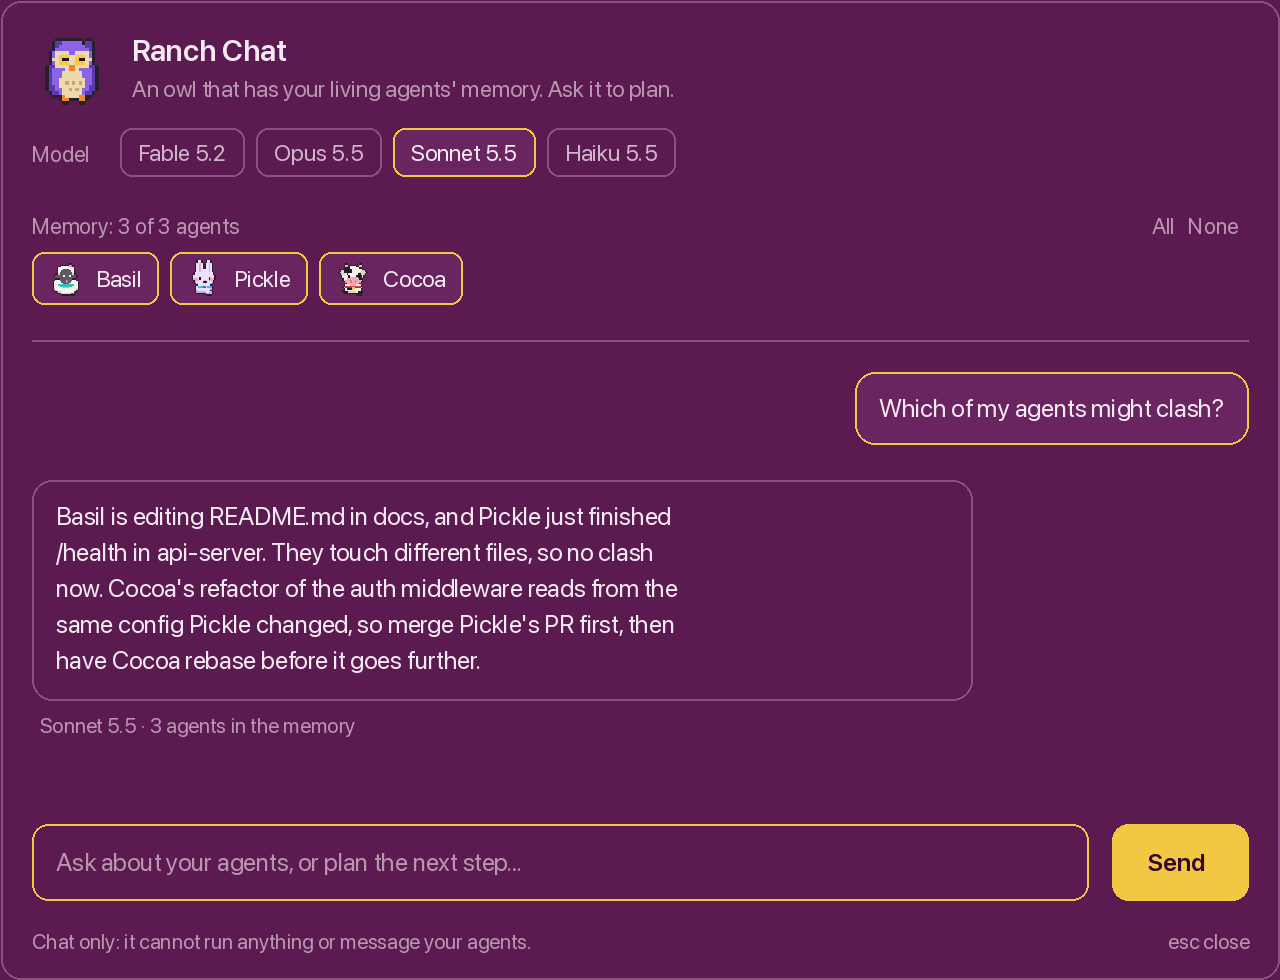
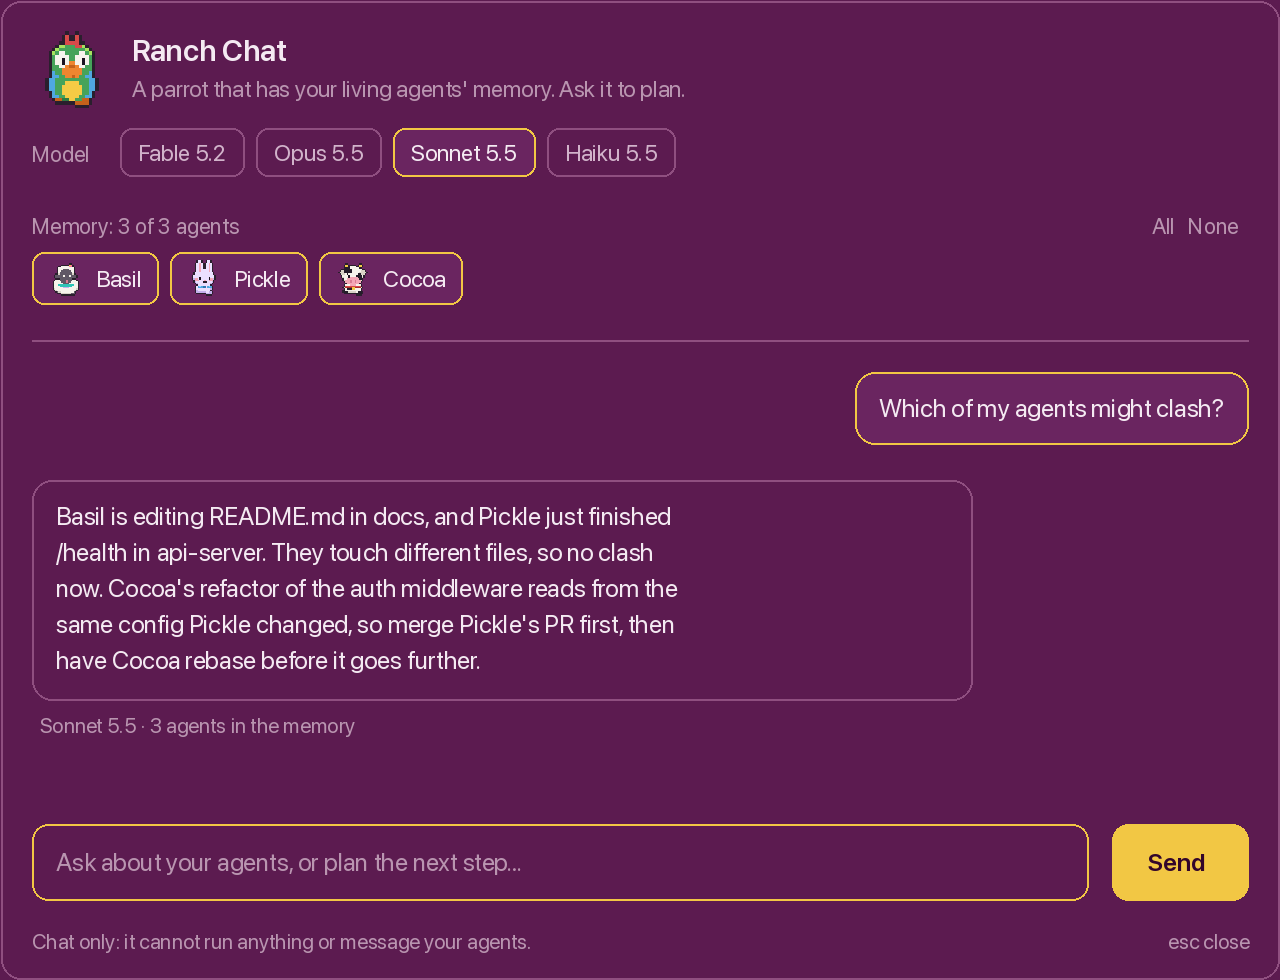
feat(chat): a parrot instead of the owl for Ranch Chat

Changed region(s): [[0.2812, 0.0612, 0.5312, 0.1224], [0.0312, 0.0306, 0.0938, 0.1224], [0.125, 0.0918, 0.25, 0.1224]]

diff --git a/mods/ranch-chat/main.js b/mods/ranch-chat/main.js
@@ -1,4 +1,4 @@
-// Ranch Chat: talk with an owl that has your living agents' memory, to plan and compare.
+// Ranch Chat: talk with a parrot that has your living agents' memory, to plan and compare.
 // The memory is each agent's recent screen (hc read), taken fresh with every message; the answer is one
 // `claude -p` call with the model you pick, with no tools. Nothing is sent to an agent.
 
@@ -33,13 +33,13 @@ export default class RanchChat extends View {
     this.toEnd = true;
   }
 
-  // The owl while it thinks: two frames, as the agent cards do.
-  owl(size, busy) {
-    if (!busy) return sprite("owl-idle", size);
+  // The parrot while it thinks: two frames, as the agent cards do.
+  parrot(size, busy) {
+    if (!busy) return sprite("parrot-idle", size);
     const frame = (file) => sprite(file, size);
     return div().relative().w(size).h(size).flex_none()
-      .child(frame("owl-work").loop("opacity", { from: 7, to: -6, period: 700, easing: "linear" }))
-      .child(frame("owl-2").absolute().top(0).left(0).loop("opacity", { from: -6, to: 7, period: 700, easing: "linear" }));
+      .child(frame("parrot-work").loop("opacity", { from: 7, to: -6, period: 700, easing: "linear" }))
+      .child(frame("parrot-2").absolute().top(0).left(0).loop("opacity", { from: -6, to: 7, period: 700, easing: "linear" }));
   }
 
   // Reads every remembered agent's screen now, asks the model, adds the reply.
@@ -76,7 +76,7 @@ export default class RanchChat extends View {
       } catch (error) {
         reply = { ok: false, text: String(error).slice(0, 240) };
       }
-      this.log = [...this.log, { role: "owl", text: reply.text, error: !reply.ok, model, count }];
+      this.log = [...this.log, { role: "parrot", text: reply.text, error: !reply.ok, model, count }];
       this.busy = false;
       this.toEnd = true;
       save(LOG_KEY, this.log.slice(-KEEP));
@@ -128,10 +128,10 @@ export default class RanchChat extends View {
     const link = (id, label, action) => div().id(id).text_size(11).text_color(t.dim).cursor_pointer().hover((el) => el.text_color(t.foreground)).on_click(action).child(label);
     return v_flex().size_full().min_h(0).p(16).gap(10).bg(t.popover).text_size(13)
       .child(h_flex().gap(10).items_center()
-        .child(this.owl(40, this.busy))
+        .child(this.parrot(40, this.busy))
         .child(v_flex().flex_1().min_w(0)
           .child(div().text_size(15).font_semibold().text_color(t.foreground).child("Ranch Chat"))
-          .child(div().truncate().text_size(11.5).text_color(t.dim).child("An owl that has your living agents' memory. Ask it to plan.")))
+          .child(div().truncate().text_size(11.5).text_color(t.dim).child("A parrot that has your living agents' memory. Ask it to plan.")))
         .when(this.log.length > 0, (el) => el.child(link("chat-clear", "Clear", (_e, cx2) => { this.log = []; save(LOG_KEY, []); cx2.notify(); }))))
       .child(h_flex().gap(5).items_center().flex_wrap()
         .child(div().text_size(11).text_color(t.dim).mr(3).child("Model"))
@@ -146,11 +146,11 @@ export default class RanchChat extends View {
       .child(div().h(1).w_full().flex_none().bg(t.border))
       .child(v_flex().id("chat-log").flex_1().min_h(0).gap(10).overflow_y_scrollbar().track_scroll(this.scroll)
         .when(this.log.length === 0, (el) => el.child(v_flex().gap(8).py(8)
-          .child(div().text_size(12).text_color(t.dim).child("Every message reads your agents' screens fresh, so the owl always knows what they are doing now. New agents join by themselves; untick one above to leave it out."))
+          .child(div().text_size(12).text_color(t.dim).child("Every message reads your agents' screens fresh, so the parrot always knows what they are doing now. New agents join by themselves; untick one above to leave it out."))
           .children(SUGGESTIONS.map((s, i) => div().id(`suggest-${i}`).px(10).py(7).rounded(8).border(1).border_color(t.border).bg(t.raised).text_size(12).text_color(t.muted)
             .cursor_pointer().hover((e) => e.bg(t.hover)).on_click((_e, cx2) => this.ask(cx2, s)).child(s)))))
         .children(this.log.map((m, i) => this.bubble(t, m, i)))
-        .when(this.busy, (el) => el.child(div().px(4).text_size(11.5).text_color(t.dim).child(`The owl is reading ${inMemory === 1 ? "1 agent" : `${inMemory} agents`} and thinking…`))))
+        .when(this.busy, (el) => el.child(div().px(4).text_size(11.5).text_color(t.dim).child(`The parrot is reading ${inMemory === 1 ? "1 agent" : `${inMemory} agents`} and thinking…`))))
       .child(h_flex().gap(8).items_center()
         .child(Input.new(this.input).flex_1().h(38).px(10).rounded(8).border(1).border_color(t.accent).bg(t.background).text_size(12.5).text_color(t.foreground))
         .child(div().id("chat-send").px(14).h(38).flex().items_center().rounded(8).flex_none().font_semibold().text_size(12.5)

diff --git a/mods/ranch-tabs/main.js b/mods/ranch-tabs/main.js
@@ -2,7 +2,7 @@ import { View, div, svg, image } from "gpui-kit";
 import { h_flex, ScrollHandle } from "gpui-base";
 import { spaces, panes, agents, run, openOverlay, theme, window, shared, layout, settings } from "herdr";
 
-// Ranch Chat: the owl button next to the strip, opening the chat window. Hidden from Ranch settings (`ranch.hide.chat`).
+// Ranch Chat: the parrot button next to the strip, opening the chat window. Hidden from Ranch settings (`ranch.hide.chat`).
 const chatHidden = () => (shared("ranch.hide") ?? {}).chat === true;
 
 function find(node, id) {
@@ -186,9 +186,9 @@ export default class Tabs extends View {
       .child(this.strip(t))
       .when(!chatHidden(), el => el.child(h_flex().id("ranch-chat").h(26).px(8).gap(5).flex_none().items_center().rounded(4).border(2).border_color(t.chrome)
         .text_size(12).text_color(t.muted).hover(s => s.bg(t.hover).text_color(t.foreground)).cursor_pointer()
-        .tooltip("Ranch Chat: plan with an owl that knows your agents")
+        .tooltip("Ranch Chat: plan with a parrot that knows your agents")
         .on_mouse_down("left", stop).on_click(() => openOverlay({ mod: "ranch-chat", kind: "dialog", width: 640, height: 720 }))
-        .child(image("mods/flock/sprites/owl.svg").w(18).h(18).flex_none()).child("Chat")))
+        .child(image("mods/flock/sprites/parrot.svg").w(18).h(18).flex_none()).child("Chat")))
       .child(button("tab-new", "+", () => openOverlay({ mod: "new-menu", kind: "popup", width: 250, height: 512 })))
       .when(enabled.includes("files"), el => el.child(panelButton("files", "Files", "mods/files/file.svg")))
       .when(enabled.includes("changes"), el => el.child(panelButton("changes", "Changes", "mods/changes/changes.svg")))

diff --git a/mods/ranch-chat/chat.js b/mods/ranch-chat/chat.js
@@ -49,7 +49,7 @@ export function systemPrompt(memory, count) {
   const who = count === 0
     ? "No agents are in the memory right now, so answer from the question alone."
     : `Below is the memory: what ${count === 1 ? "one coding agent" : `${count} coding agents`} on the user's ranch recently showed on screen. Use it to plan, compare, spot clashes between them and suggest next steps. Say so when the memory does not tell you something.`;
-  return `You are Ranch Chat, a wise owl who helps the user plan with their coding agents. Be concrete and brief. You cannot run commands or change files; you can only talk.\n\n${who}${memory ? `\n\n${memory}` : ""}`;
+  return `You are Ranch Chat, a clever parrot who helps the user plan with their coding agents. Be concrete and brief. You cannot run commands or change files; you can only talk.\n\n${who}${memory ? `\n\n${memory}` : ""}`;
 }
 
 /** The chat so far, newest kept, then the new question: one prompt, since each call starts fresh. */

diff --git a/tests/chat.test.js b/tests/chat.test.js
@@ -39,10 +39,10 @@ test("systemPrompt says how many agents are remembered", () => {
 });
 
 test("buildPrompt ends with the question, skips errors and trims the oldest first", () => {
-  const history = [{ role: "user", text: "hi" }, { role: "owl", text: "hello" }, { role: "owl", text: "boom", error: true }];
+  const history = [{ role: "user", text: "hi" }, { role: "parrot", text: "hello" }, { role: "owl", text: "boom", error: true }];
   assert.equal(buildPrompt(history, "plan?"), "User: hi\n\nRanch Chat: hello\n\nUser: plan?\n\nRanch Chat:");
   assert.equal(buildPrompt([], "x"), "User: x\n\nRanch Chat:");
-  const long = [{ role: "user", text: "old ".repeat(100) }, { role: "owl", text: "new" }];
+  const long = [{ role: "user", text: "old ".repeat(100) }, { role: "parrot", text: "new" }];
   assert.doesNotMatch(buildPrompt(long, "q", 50), /old/);
 });
 

diff --git a/tools/sections_picture.py b/tools/sections_picture.py
@@ -198,7 +198,7 @@ def settings_picture(path, theme="dark", s=2):
 
 
 def chat_picture(path, theme="dark", s=2):
-    """The Ranch Chat window: the owl, the model, the agents in its memory, one question and its answer."""
+    """The Ranch Chat window: the parrot, the model, the agents in its memory, one question and its answer."""
     w, h = 640, 490
     pop = (92, 27, 80) if theme == "dark" else (222, 232, 200)
     img = Image.new("RGB", (round(w * s), round(h * s)), pop)
@@ -206,9 +206,9 @@ def chat_picture(path, theme="dark", s=2):
     c = pen.c
     sel = (106, 37, 96) if theme == "dark" else (157, 184, 120)
     pen.box(0.5, 0.5, w - 0.5, h - 0.5, 10, outline=c["border"])
-    pen.paste(critter("owl", "", 40 * s), 16, 14)
+    pen.paste(critter("parrot", "", 40 * s), 16, 14)
     pen.text(66, 16, "Ranch Chat", 15, c["fg"], "Semibold")
-    pen.text(66, 37, "An owl that has your living agents' memory. Ask it to plan.", 11.5, c["dim"])
+    pen.text(66, 37, "A parrot that has your living agents' memory. Ask it to plan.", 11.5, c["dim"])
     x = 16
     pen.text(x, 70, "Model", 11, c["dim"])
     x += 44

diff --git a/tools/sprites.py b/tools/sprites.py
@@ -564,7 +564,28 @@ def hedgehog(c, ph):
     c.dot(12, 6, "B")
 
 
-CRITTERS = {"pig": pig, "cat": cat, "frog": frog, "hedgehog": hedgehog}
+def parrot(c, ph):
+    """Ranch Chat's animal: a green parrot with a red crest, a white face and blue wings."""
+    wing = 1 if ph else 0
+    feet(c, ph, "O", "Q", dx=2.6)
+    c.ell(7 - wing, 17, 1.9, 3.8, "U")
+    c.ell(17 + wing, 17, 1.9, 3.8, "U")
+    c.ell(12, 17.6, 5.2, 4.6, "M")
+    c.ell(12, 18.6, 3.0, 3.0, "Y")
+    c.ell(12, 9.8, 6.4, 5.6, "M")
+    c.poly([(9.5, 5.4), (10.6, 1.6), (12, 5.4)], "R")
+    c.poly([(12, 5.4), (13.4, 2.2), (14.8, 5.6)], "R")
+    c.shade("M", "m")
+    c.light("M", "I")
+    c.ell(9.2, 9.6, 2.3, 2.3, "W")
+    c.ell(14.8, 9.6, 2.3, 2.3, "W")
+    c.ell(12, 12.6, 2.7, 2.5, "O")
+    c.rect(11, 11, 12, 11, "Q")
+    c.dot(12, 14, "Q")
+    eyes(c, 9, 2.8)
+
+
+CRITTERS = {"pig": pig, "cat": cat, "frog": frog, "hedgehog": hedgehog, "parrot": parrot}
 
 
 ANIMALS = {

diff --git a/RECIPE.md b/RECIPE.md
@@ -33,7 +33,7 @@ Themes, set on the layout as `{ "light": "ranch-meadow", "dark": "ranch-dusk" }`
 - **Done:** a still animal with a gold badge (a 6x6 gold disc with a white check) in the top-left corner and two frames of falling confetti laid over it (a transparent 36px picture, every 1200ms) until you look at it; status word "Done". A 16px "✓" box on the card tucks the animal away ("N in the barn" chip) until its next task, when it comes back by itself; the chip brings everyone back at once.
 - **Ranch board.** Each working-to-idle change that lasted at least 20 seconds (`MIN_TASK`) counts one task and adds its duration (kept in the flock mod's `localStorage` key `ranch`, reset each day, and published as shared `ranch.today`). The tree has 8 stages by tasks done: 0, then 1, 4, 8, 13, 19, 26 and blossoms at 30 (14x14 pictures `icons/tree-<n>[-droop].svg`). Spend is each session's highest `$` cost seen, read only from a row that looks like the status line (it shows `ctx`, a model name, `5h` or `last $`), summed; clicking the amount makes what each session has cost so far its zero.
 - **Agent list options.** `mods/flock/agentview.js` (`STATES`, `filterByState`, `pairUp`, `nextIndex`). Shared `agents.sort` is `priority` | `longest` (needs you first, oldest wait on top) | `grouped`; shared `agents.filter` is `all` | `blocked` | `working` | `done` | `idle` and shows a chip in the header; both are set in the sort popup (220x345). Shared `ranch.layout` = `{ columns: 2 }` turns on the compact card (`twoCol`: `flex_1 min_w(0)` cards in an `h_flex` pair, animal 36px in an id'd box, name, the space name (`space_name`; red when blocked or on "Wake up!"), the HP/SP bars along the bottom, the state or pin absolute in the corner, no sub-agent rows). Shared `ranch.hide.board` hides the ranch board. The popup in `meadows` has a row for each and is 410px high. In `flock-status`, the "needs you" chip is a button that focuses the next waiting agent (`jumpToWaiting`). Scout's card in `reviewerSection` gets a `working` edge, a 10% tint and a `working`-coloured word while reviewing.
-- **Ranch Chat** (`mods/ranch-chat`, `place: "none"`, opened with `openOverlay({ mod: "ranch-chat", kind: "dialog", width: 640, height: 720 })` from the owl "Chat" button in `ranch-tabs`, left of the "+" and right of the strip; hidden by shared `ranch.hide.chat`). Header: a 40px owl (`owl-idle`; while it thinks, `owl-work` and `owl-2` swapped every 700ms), "Ranch Chat" and one line. Model pills (`MODELS` in `chat.js`: `claude-fable-5-2`, `claude-opus-5-5`, `claude-sonnet-5-5` default, `claude-haiku-5-5`; localStorage `ranch.chat.model`). A "Memory: N of M agents" line with All / None and one chip per living agent (18px animal, name; on = `accent` border and `selected` fill); the unticked addresses are kept in `ranch.chat.off`, so every other living agent, new ones included, is in the memory. A scrolling log (user bubbles right, owl bubbles left, each owl bubble followed by "<model> · N agents in the memory"; errors in `blocked`; localStorage `ranch.chat.log`, last 40), three starter questions when empty, an input (`submit` also sends) and a gold Send. On each send: `hc read` for every remembered agent, `buildMemory` (per agent "## name (animal) — space · status" and `screenTail` of 80 lines, 36,000 characters in all), then `exec("claude", ["-p", "--model", m, "--tools", "", "--no-session-persistence", "--append-system-prompt", system, prompt])` with a 240s timeout, where the prompt is the chat so far (12,000 characters, oldest dropped first) and the new question. No tools, so the owl cannot act; failures (no `claude`, not signed in) show as a red bubble. Helpers and tests: `chat.js`, `tests/chat.test.js`. Picture: `assets/ranch-chat.png`, drawn by `tools/sections_picture.py` (`chat_picture`); the names and the answer are made up.
+- **Ranch Chat** (`mods/ranch-chat`, `place: "none"`, opened with `openOverlay({ mod: "ranch-chat", kind: "dialog", width: 640, height: 720 })` from the parrot "Chat" button in `ranch-tabs`, left of the "+" and right of the strip; hidden by shared `ranch.hide.chat`). Header: a 40px parrot (`parrot-idle`; while it thinks, `parrot-work` and `parrot-2` swapped every 700ms), "Ranch Chat" and one line. Model pills (`MODELS` in `chat.js`: `claude-fable-5-2`, `claude-opus-5-5`, `claude-sonnet-5-5` default, `claude-haiku-5-5`; localStorage `ranch.chat.model`). A "Memory: N of M agents" line with All / None and one chip per living agent (18px animal, name; on = `accent` border and `selected` fill); the unticked addresses are kept in `ranch.chat.off`, so every other living agent, new ones included, is in the memory. A scrolling log (user bubbles right, parrot bubbles left, each parrot bubble followed by "<model> · N agents in the memory"; errors in `blocked`; localStorage `ranch.chat.log`, last 40), three starter questions when empty, an input (`submit` also sends) and a gold Send. On each send: `hc read` for every remembered agent, `buildMemory` (per agent "## name (animal) — space · status" and `screenTail` of 80 lines, 36,000 characters in all), then `exec("claude", ["-p", "--model", m, "--tools", "", "--no-session-persistence", "--append-system-prompt", system, prompt])` with a 240s timeout, where the prompt is the chat so far (12,000 characters, oldest dropped first) and the new question. No tools, so the parrot cannot act; failures (no `claude`, not signed in) show as a red bubble. Helpers and tests: `chat.js`, `tests/chat.test.js`. Picture: `assets/ranch-chat.png`, drawn by `tools/sections_picture.py` (`chat_picture`); the names and the answer are made up.
 - **Needs-you bell.** The bell rings (two frames, 700ms) while anyone is blocked and carries a red count; click it for a popup (300px wide) listing every waiting animal across all spaces, longest wait first: a 30px blocked animal, its name, "<space> · <program>" and the wait in red; a click focuses that pane and closes the popup.
 - **Find.** The magnifier shows a text box; animals that do not match (name, animal, space, program, state) fade to 25%; Enter focuses the first match.
 - **Rename.** Clicking an animal's name opens a 320px popup with a text box (Enter saves, Esc cancels); an empty name gives a fresh random one. It writes shared `flock.names`, which the toasts and pane header read.

diff --git a/README.md b/README.md
@@ -52,7 +52,7 @@ The terminal stays plain: no background art, nothing on the right. CPU, RAM and 
 <td width="33%" valign="top">
 
 ### Tools for developers
-Warnings before an agent runs out of context or quota, or gets stuck. What each task changed. Spend per agent and per day. One list of every agent waiting on you, and a button that jumps to the next. Hand what one agent has been doing to another. Dev servers and worktrees under your spaces. **Ranch Chat**: plan with an owl that already knows what your agents are doing, with the model you pick.
+Warnings before an agent runs out of context or quota, or gets stuck. What each task changed. Spend per agent and per day. One list of every agent waiting on you, and a button that jumps to the next. Hand what one agent has been doing to another. Dev servers and worktrees under your spaces. **Ranch Chat**: plan with a parrot that already knows what your agents are doing, with the model you pick.
 
 </td>
 </tr>
@@ -233,15 +233,15 @@ rm -rf layouts/Herdr-Ranch.* themes/ranch-*.json mods/flock mods/flock-status mo
   </tr>
 </table>
 
-A new agent gets one of the 8 common animals nobody is using; when all 8 are taken it takes one of the least used, in alternate colours. About 1 agent in 10 is a rare animal instead (fox 6%, owl 3%, dragon 1% of all agents). Rares never use up a common slot, and Scout is never given to an agent. The animal, its name and its colour are kept per terminal, so they survive restarts.
+A new agent gets one of the 8 common animals nobody is using; when all 8 are taken it takes one of the least used, in alternate colours. About 1 agent in 10 is a rare animal instead (fox 6%, owl 3%, dragon 1% of all agents). Rares never use up a common slot, and Scout is never given to an agent. The green parrot with the red crest belongs to Ranch Chat alone; no agent is ever a parrot. The animal, its name and its colour are kept per terminal, so they survive restarts.
 
 ### Ranch Chat
 
-<p align="center"><img src="assets/ranch-chat.png" alt="The Ranch Chat window: an owl, four model buttons with Sonnet 5.5 chosen, three agents ticked as the memory, a question about which agents might clash and the owl's answer, and a message box" width="420"><br><sub>Ranch Chat. The names and the answer are made up.</sub></p>
+<p align="center"><img src="assets/ranch-chat.png" alt="The Ranch Chat window: a parrot, four model buttons with Sonnet 5.5 chosen, three agents ticked as the memory, a question about which agents might clash and the parrot's answer, and a message box" width="420"><br><sub>Ranch Chat. The names and the answer are made up.</sub></p>
 
-Click the owl **Chat** button in the top bar, just before the **+**, to plan with an owl that already knows what your agents are doing.
+Click the parrot **Chat** button in the top bar, just before the **+**, to plan with a parrot that already knows what your agents are doing.
 
-- **The memory is your living agents, automatically.** Every message reads each running agent's recent screen (the last 80 conversation lines, at most 36,000 characters in all) fresh, so the owl always knows the state of things now. A new agent joins by itself. Tick or untick the animals above the chat to talk about one agent, a few or all of them (**All** and **None** switch everyone).
+- **The memory is your living agents, automatically.** Every message reads each running agent's recent screen (the last 80 conversation lines, at most 36,000 characters in all) fresh, so the parrot always knows the state of things now. A new agent joins by itself. Tick or untick the animals above the chat to talk about one agent, a few or all of them (**All** and **None** switch everyone).
 - **Pick the model for the chat:** Fable 5.2, Opus 5.5, Sonnet 5.5 (the default) or Haiku 5.5. It is remembered.
 - **Ask anything for planning:** what everyone is working on, which agents might clash, what to do next, how to split a task. Three starter questions are one click away. The chat is kept between openings; **Clear** empties it.
 - **It only talks.** It runs `claude -p` with no tools, so it cannot change files, run commands or message your agents. Use Memory share to pass something to an agent.
@@ -287,7 +287,7 @@ python3 -m unittest discover -s tools
 | `mods/meadows` | spaces, the Reviewer, Servers and Worktrees sections (clone of `spaces`) |
 | `mods/flock-status`, `flock-toast` | status bar (with the Update button) and toasts |
 | `mods/ranch-chrome`, `ranch-tabs`, `ranch-pane` | sign and footer, tab bar with the ranch strip, pane header |
-| `mods/ranch-chat` | Ranch Chat: the owl chat that has your living agents' memory (`claude -p`, no tools) |
+| `mods/ranch-chat` | Ranch Chat: the parrot chat that has your living agents' memory (`claude -p`, no tools) |
 | `mods/ranch-worktree` | the New and Open worktree dialog, in the ranch style, with Delete (a copy of herdr's `worktree`) |
 | `tools/` | the pictures, the sounds and the demo GIF, with their tests |
 | `assets/` | `demo.gif`, `memory-share.png`, `servers-worktrees.png`, `ranch-settings.png`, `ranch-chat.png`, `two-columns.png`, `worktree-dialog.png`, `toasts.png`, `update-toasts.png`, `update-button.png`, `preview-dusk.png` |

diff --git a/CHANGELOG.md b/CHANGELOG.md
@@ -4,7 +4,7 @@
 
 Ranch Chat.
 
-- **Ranch Chat**: an owl **Chat** button in the top bar (before the **+**) opens a chat with an owl that has your living agents' memory. Every message reads each running agent's recent screen fresh, so new agents join by themselves; tick or untick the animals to talk about one, a few or all. Pick the model for the chat (Fable 5.2, Opus 5.5, Sonnet 5.5, Haiku 5.5). It answers through `claude -p` with no tools, so it only talks: it cannot change files or message agents. Hide the button in Ranch settings (**Chat button**).
+- **Ranch Chat**: a parrot **Chat** button in the top bar (before the **+**) opens a chat with a parrot that has your living agents' memory. Every message reads each running agent's recent screen fresh, so new agents join by themselves; tick or untick the animals to talk about one, a few or all. Pick the model for the chat (Fable 5.2, Opus 5.5, Sonnet 5.5, Haiku 5.5). It answers through `claude -p` with no tools, so it only talks: it cannot change files or message agents. Hide the button in Ranch settings (**Chat button**).
 - README: "What it runs" now names the update check and Ranch Chat as the only things that use the network.
 
 ## 0.3.0
